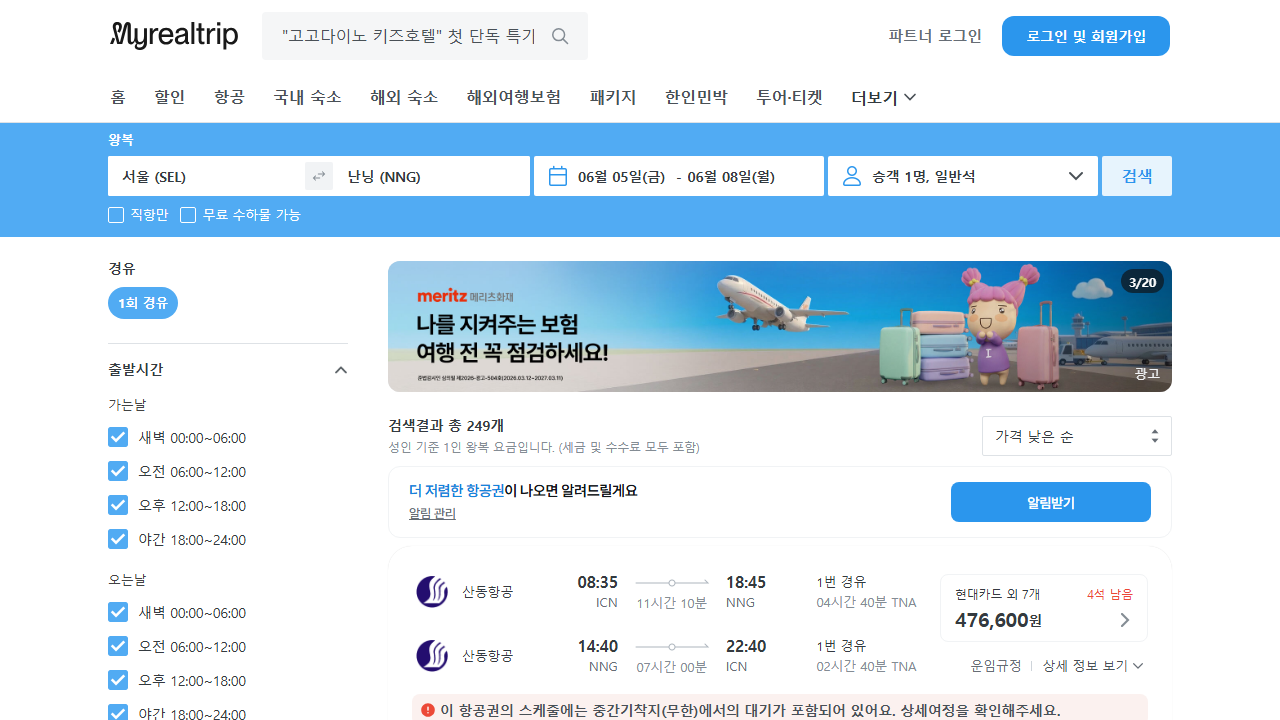
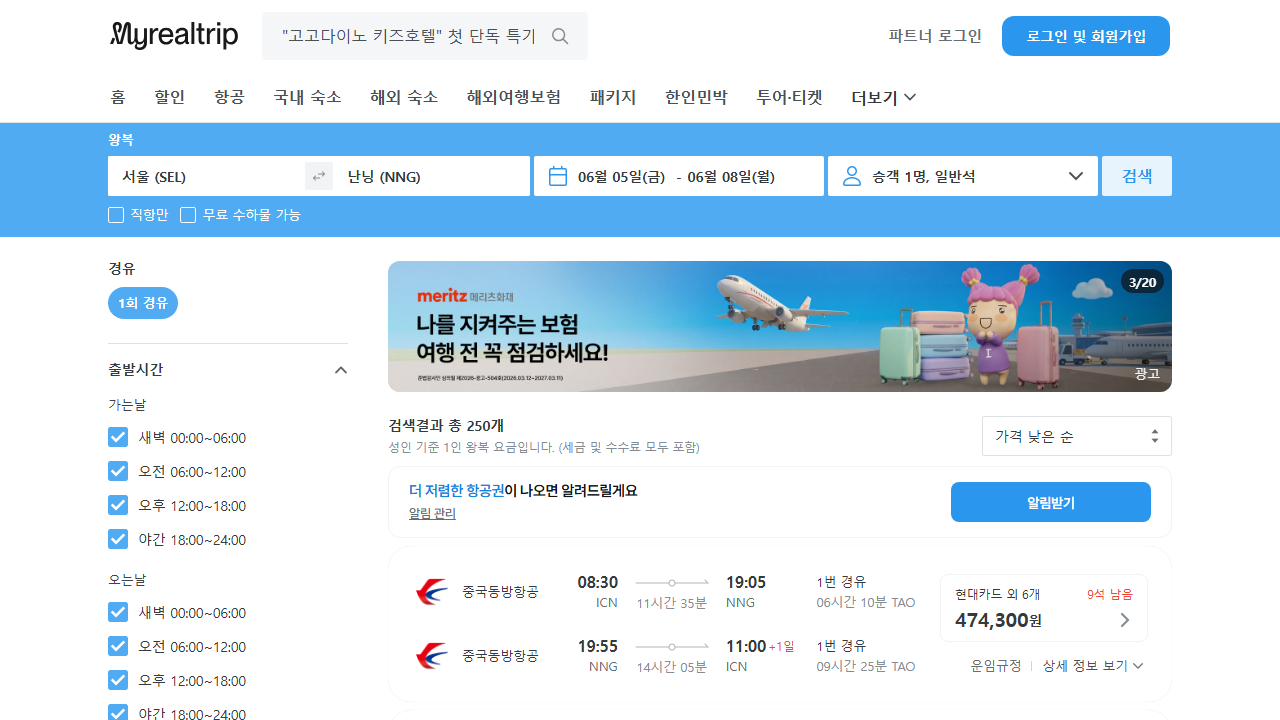
fix: Playwright 실패 시 Calendar 가격 유지 + 실패 노선 재시도
- Playwright 조회 실패한 노선을 삭제하지 않고 Calendar API 가격 유지
- 1차 완료 후 실패 노선을 새 브라우저로 2차 재시도
- 기타큐슈, 웨이하이 등 누락 도시 문제 해결

diff --git a/scripts/scrape-myrealtrip-prices.ts b/scripts/scrape-myrealtrip-prices.ts
@@ -252,12 +252,30 @@ async function main() {
 
     const results = new Map<string, { price: number; airline: string }>();
 
-    // 병렬 실행
+    // 1차 실행
     await Promise.all(
         chunks.map((chunk, i) => worker(browser, chunk, results, i + 1))
     );
 
     await browser.close();
+
+    // 2차 재시도: 실패한 노선만
+    const failedTasks = tasks.filter(t => !results.has(t.flight.id));
+    if (failedTasks.length > 0 && failedTasks.length < tasks.length) {
+        console.log(`\n🔄 ${failedTasks.length}개 실패 노선 재시도 중...\n`);
+        const retryBrowser = await chromium.launch({
+            headless: true,
+            args: ['--disable-blink-features=AutomationControlled'],
+        });
+        const retryChunks: typeof tasks[] = Array.from({ length: WORKERS }, () => []);
+        shuffle(failedTasks).forEach((task, i) => retryChunks[i % WORKERS].push(task));
+        await Promise.all(
+            retryChunks.map((chunk, i) => worker(retryBrowser, chunk, results, i + 10))
+        );
+        await retryBrowser.close();
+        const recovered = failedTasks.length - tasks.filter(t => !results.has(t.flight.id)).length;
+        console.log(`✅ 재시도 결과: ${recovered}개 복구 성공`);
+    }
 
     // 캐시 업데이트
     let updated = 0;
@@ -287,17 +305,15 @@ async function main() {
         }
     }
 
-    // 가격 못 불러온 노선 = 현재 항공권 없음 → 캐시에서 제거
-    const failedIds = new Set<string>();
+    // Playwright 가격 조회 실패한 노선 = Calendar API 가격 유지
+    let skipped = 0;
     for (const task of tasks) {
         if (!results.has(task.flight.id)) {
-            failedIds.add(task.flight.id);
+            skipped++;
         }
     }
-    if (failedIds.size > 0) {
-        cache.flights = cache.flights.filter((f: any) => !failedIds.has(f.id));
-        removed = failedIds.size;
-        console.log(`\n❌ 항공권 없는 노선 ${removed}개 제거 (Playwright 가격 조회 실패 = 현재 판매 없음)`);
+    if (skipped > 0) {
+        console.log(`\n⚠ ${skipped}개 노선 Playwright 조회 실패 → Calendar API 가격 유지 (삭제하지 않음)`);
     }
 
     // ── 인터파크 벤치마크 필터링 ──────────────────────────────

diff --git a/scripts/test-osaka.ts b/scripts/test-osaka.ts
@@ -1,0 +1,28 @@
+import { chromium } from 'playwright';
+
+async function test() {
+  const browser = await chromium.launch({ headless: true, args: ['--disable-blink-features=AutomationControlled'] });
+  const page = await browser.newPage();
+  // 옌타이 YNT, gid=4226288, Bulk API 날짜 기준 10/19출발 6박
+  const url = 'https://flights.myrealtrip.com/air/agent/b2c/AIR/AAA/offers.k1?gid=4226288&depdt=2026-10-19&arrdt=2026-10-25&cabin=Y&adult=1&child=0&infant=0';
+  console.log('옌타이 검색 중...');
+  console.log('URL:', url);
+  await page.goto(url, { waitUntil: 'networkidle', timeout: 45000 });
+  console.log('페이지 로드 완료, 12초 대기...');
+  await page.waitForTimeout(12000);
+  
+  const prices = await page.evaluate(() => {
+    const r: string[] = [];
+    document.querySelectorAll('*').forEach(el => {
+      const t = (el as HTMLElement).innerText?.trim() || '';
+      if (t.match(/[\d,]+원/) && t.length < 50 && !r.includes(t)) r.push(t);
+    });
+    return r.slice(0, 15);
+  });
+  console.log('\n=== 옌타이 실제 가격 ===');
+  if (prices.length === 0) console.log('❌ 가격 없음');
+  else prices.forEach(p => console.log(' ', p));
+  
+  await browser.close();
+}
+test().catch(e => { console.error('에러:', e.message); process.exit(1); });
